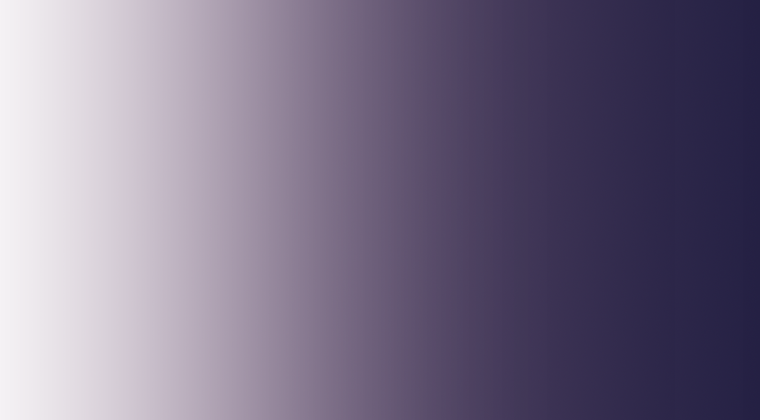
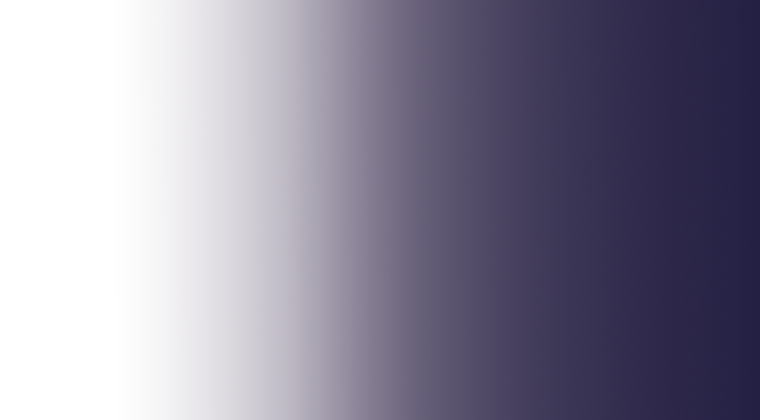
clean image folder

diff --git a/beats.html b/beats.html
@@ -78,86 +78,86 @@
     </div>
       <div class="row no-gutters">
         <div class="col-4 col-md-2">
-          <img class="img-fluid d-block mx-auto beats" src="img/cruise.jpeg" alt="">
+          <img class="img-fluid d-block mx-auto beats" src="img/molestias.jpg" alt="">
         </div>
           <div class="col-4 col-md-2">
-            <img class="img-fluid d-block mx-auto beats" src="img/cruise.jpeg" alt="">
+            <img class="img-fluid d-block mx-auto beats" src="img/lueurs.jpg" alt="">
           </div>
             <div class="col-4 col-md-2">
-              <img class="img-fluid d-block mx-auto beats" src="img/cruise.jpeg" alt="">
+              <img class="img-fluid d-block mx-auto beats" src="img/cruise.jpg" alt="">
             </div>
             <div class="col-4 col-md-2 mt-2 mt-md-0">
-              <img class="img-fluid d-block mx-auto beats" src="img/ecumes.jpeg" alt="">
+              <img class="img-fluid d-block mx-auto beats" src="img/ecumes.jpg" alt="">
             </div>
               <div class="col-4 col-md-2 mt-2 mt-md-0">
                 <img class="img-fluid d-block mx-auto beats" src="img/supernova.jpg" alt="">
               </div>
                 <div class="col-4 col-md-2 mt-2 mt-md-0">
-                  <img class="img-fluid d-block mx-auto beats" src="img/epilogue.jpeg" alt="">
+                  <img class="img-fluid d-block mx-auto beats" src="img/epilogue.jpg" alt="">
                 </div>
 
       </div>
       <div class="row no-gutters">
         <div class="col-4  col-md-2">
-          <img class="img-fluid d-block mx-auto beats" src="img/cruise.jpeg" alt="">
+          <img class="img-fluid d-block mx-auto beats" src="img/kaleidoscope.jpg" alt="">
         </div>
           <div class="col-4  col-md-2">
-            <img class="img-fluid d-block mx-auto beats" src="img/cruise.jpeg" alt="">
+            <img class="img-fluid d-block mx-auto beats" src="img/longitude.jpg" alt="">
           </div>
             <div class="col-4  col-md-2">
-              <img class="img-fluid d-block mx-auto beats" src="img/cruise.jpeg" alt="">
+              <img class="img-fluid d-block mx-auto beats" src="img/odyssey.jpg" alt="">
             </div>
 
             <div class="col-4  col-md-2 mt-2 mt-md-0">
-              <img class="img-fluid d-block mx-auto beats" src="img/cruise.jpeg" alt="">
+              <img class="img-fluid d-block mx-auto beats" src="img/phoenix.jpg" alt="">
             </div>
               <div class="col-4  col-md-2 mt-2 mt-md-0">
-                <img class="img-fluid d-block mx-auto beats" src="img/cruise.jpeg" alt="">
+                <img class="img-fluid d-block mx-auto beats" src="img/flamencos.jpg" alt="">
               </div>
                 <div class="col-4  col-md-2 mt-2 mt-md-0">
-                  <img class="img-fluid d-block mx-auto beats" src="img/cruise.jpeg" alt="">
+                  <img class="img-fluid d-block mx-auto beats" src="img/east6thst.jpg" alt="">
                 </div>
       </div>
       <div class="row no-gutters">
         <div class="col-4  col-md-2">
-          <img class="img-fluid d-block mx-auto beats" src="img/cruise.jpeg" alt="">
+          <img class="img-fluid d-block mx-auto beats" src="img/requiem.jpg" alt="">
         </div>
           <div class="col-4  col-md-2">
-            <img class="img-fluid d-block mx-auto beats" src="img/cruise.jpeg" alt="">
+            <img class="img-fluid d-block mx-auto beats" src="img/caipirinha.jpg" alt="">
           </div>
             <div class="col-4  col-md-2">
-              <img class="img-fluid d-block mx-auto beats" src="img/cruise.jpeg" alt="">
+              <img class="img-fluid d-block mx-auto beats" src="img/breams.jpg" alt="">
             </div>
 
             <div class="col-4  col-md-2 mt-2 mt-md-0">
-              <img class="img-fluid d-block mx-auto beats" src="img/cruise.jpeg" alt="">
+              <img class="img-fluid d-block mx-auto beats" src="img/isladelsol.jpg" alt="">
             </div>
               <div class="col-4  col-md-2 mt-2 mt-md-0">
-                <img class="img-fluid d-block mx-auto beats" src="img/cruise.jpeg" alt="">
+                <img class="img-fluid d-block mx-auto beats" src="img/arequipa.jpg" alt="">
               </div>
                 <div class="col-4  col-md-2 mt-2 mt-md-0">
-                  <img class="img-fluid d-block mx-auto beats" src="img/cruise.jpeg" alt="">
+                  <img class="img-fluid d-block mx-auto beats" src="img/disorder.jpg" alt="">
                 </div>
       </div>
       <div class="row no-gutters">
         <div class="col-4  col-md-2">
-          <img class="img-fluid d-block mx-auto beats" src="img/cruise.jpeg" alt="">
+          <img class="img-fluid d-block mx-auto beats" src="img/canicule.jpg" alt="">
         </div>
           <div class="col-4  col-md-2">
-            <img class="img-fluid d-block mx-auto beats" src="img/cruise.jpeg" alt="">
+            <img class="img-fluid d-block mx-auto beats" src="img/bluemind.jpg" alt="">
           </div>
             <div class="col-4  col-md-2">
-              <img class="img-fluid d-block mx-auto beats" src="img/cruise.jpeg" alt="">
+              <img class="img-fluid d-block mx-auto beats" src="img/sphere.jpg" alt="">
             </div>
 
             <div class="col-4  col-md-2 mt-2 mt-md-0">
-              <img class="img-fluid d-block mx-auto beats" src="img/cruise.jpeg" alt="">
+              <img class="img-fluid d-block mx-auto beats" src="img/riviera.jpg" alt="">
             </div>
               <div class="col-4  col-md-2 mt-2 mt-md-0">
-                <img class="img-fluid d-block mx-auto beats" src="img/cruise.jpeg" alt="">
+                <img class="img-fluid d-block mx-auto beats" src="img/vibrations.jpg" alt="">
               </div>
                 <div class="col-4  col-md-2 mt-2 mt-md-0">
-                  <img class="img-fluid d-block mx-auto beats" src="img/cruise.jpeg" alt="">
+                  <img class="img-fluid d-block mx-auto beats" src="img/jupiter.jpg" alt="">
                 </div>
       </div>
   </section>
@@ -172,7 +172,7 @@
   </section>
 
   <!-- Image Section - set the background image for the header in the line below -->
-  <section  class="py-5 row bg-image-full">
+  <section id="contact-bg" class="py-5 row bg-image-full">
     <!-- Put anything you want here! There is just a spacer below for demo purposes! -->
      <div class="col-4">
      </div>

diff --git a/home.html b/home.html
@@ -142,13 +142,13 @@
     <!-- Put anything you want here! There is just a spacer below for demo purposes! -->
     <div class="row home-display">
     <div class="col-4 col-sm-4 col-md-3">
-      <img class="img-fluid d-block mx-auto beats" src="img/epilogue.jpeg" alt="">
+      <img class="img-fluid d-block mx-auto beats" src="img/epilogue.jpg" alt="">
     </div>
     <div class="col-4 col-sm-4 col-md-3">
-      <img class="img-fluid d-block mx-auto beats" src="img/cruise.jpeg" alt="">
+      <img class="img-fluid d-block mx-auto beats" src="img/cruise.jpg" alt="">
     </div>
     <div class="col-4 col-sm-4 col-md-3">
-      <img class="img-fluid d-block mx-auto beats" src="img/ecumes.jpeg" alt="">
+      <img class="img-fluid d-block mx-auto beats" src="img/ecumes.jpg" alt="">
     </div>
     <div class="col-4 col-sm-4 col-md-3">
       <img class="img-fluid d-block mx-auto beats" src="img/supernova.jpg" alt="">
@@ -159,13 +159,13 @@
       <img class="img-fluid d-block mx-auto beats" src="img/requiem.jpg" alt="">
     </div>
     <div class="col-4 col-sm-4 col-md-3">
-      <img class="img-fluid d-block mx-auto beats" src="img/odyssey.jpeg" alt="">
+      <img class="img-fluid d-block mx-auto beats" src="img/odyssey.jpg" alt="">
     </div>
     <div class="col-4 col-sm-4 col-md-3">
-      <img class="img-fluid d-block mx-auto beats" src="img/epilogue.jpeg" alt="">
+      <img class="img-fluid d-block mx-auto beats" src="img/molestias.jpg" alt="">
     </div>
     <div class="col-4 col-sm-4 col-md-3">
-      <img class="img-fluid d-block mx-auto beats" src="img/cruise.jpeg" alt="">
+      <img class="img-fluid d-block mx-auto beats" src="img/lueurs.jpg" alt="">
     </div>
   </div>
   </section>

diff --git a/css/full-width-pics.css b/css/full-width-pics.css
@@ -295,7 +295,7 @@ h1>a#contact:hover::after{
 }
 
 #gradient1.bg-image-full-rel::before{
-  background-image: url("../img/gradient-rel1d.png");
+  background-image: url("../img/gradient-rel1.png");
   opacity: 0.7;
   filter: grayscale(10%) blur(0.5em);
   transform: scaleY(0.94);
@@ -304,14 +304,14 @@ h1>a#contact:hover::after{
 
 #gradient2.bg-image-full-rel::before{
   /* background: linear-gradient(to left, #242043, #8d809540 33%, #00000000); */
-  background-image: url("../img/gradient-rel2b.png");
+  background-image: url("../img/gradient-rel2.png");
   opacity: 0.7;
   filter: grayscale(10%) blur(0.5em);
   transform: scaleY(0.94);
 }
 
 #gradient3.bg-image-full-rel::before{
-  background-image: url("../img/gradient-rel3c.png");
+  background-image: url("../img/gradient-rel3.png");
   opacity: 0.7;
   filter: grayscale(10%) blur(0.5em);
   transform: scaleY(0.94);
@@ -531,7 +531,7 @@ header.bg-image-full:hover::before{
 
 
 img.beats{
-  filter: grayscale(100%);
+  filter: grayscale(75%);
   transition: .5s;
   width: 95%;
 }

diff --git a/releases.html b/releases.html
@@ -128,8 +128,8 @@
     <div class="col-sm-8 col-md-7">
         <div class="col-10 col-sm-9 offset-sm-1 col-md-8 offset-md-2">
           <div class="release-cont">
-          <img class="img-fluid d-block mx-auto release-front" src="img/allileft.jpeg" alt="">
-          <img class="img-fluid d-block mx-auto release-verso" src="img/allileft-verso.jpeg" alt="">
+          <img class="img-fluid d-block mx-auto release-front" src="img/allileft.jpg" alt="">
+          <img class="img-fluid d-block mx-auto release-verso" src="img/allileft-verso.jpg" alt="">
           </div>
         </div>
 
@@ -251,7 +251,7 @@
       <p class="m-0 text-center text-white">Copyright &copy; Melodelize Records 2020</p>
     </div>
   </footer>
-  
+
   <!-- Bootstrap core JavaScript -->
   <script src="vendor/jquery/jquery.min.js"></script>
   <script src="vendor/bootstrap/js/bootstrap.bundle.min.js"></script>

diff --git a/merch.html b/merch.html
@@ -172,7 +172,7 @@
     </div>
   </section>
 
-  <section class="py-5 row bg-image-full">
+  <section id="contact-bg" class="py-5 row bg-image-full">
      <div class="col-4">
      </div>
       <div class="col-4">
